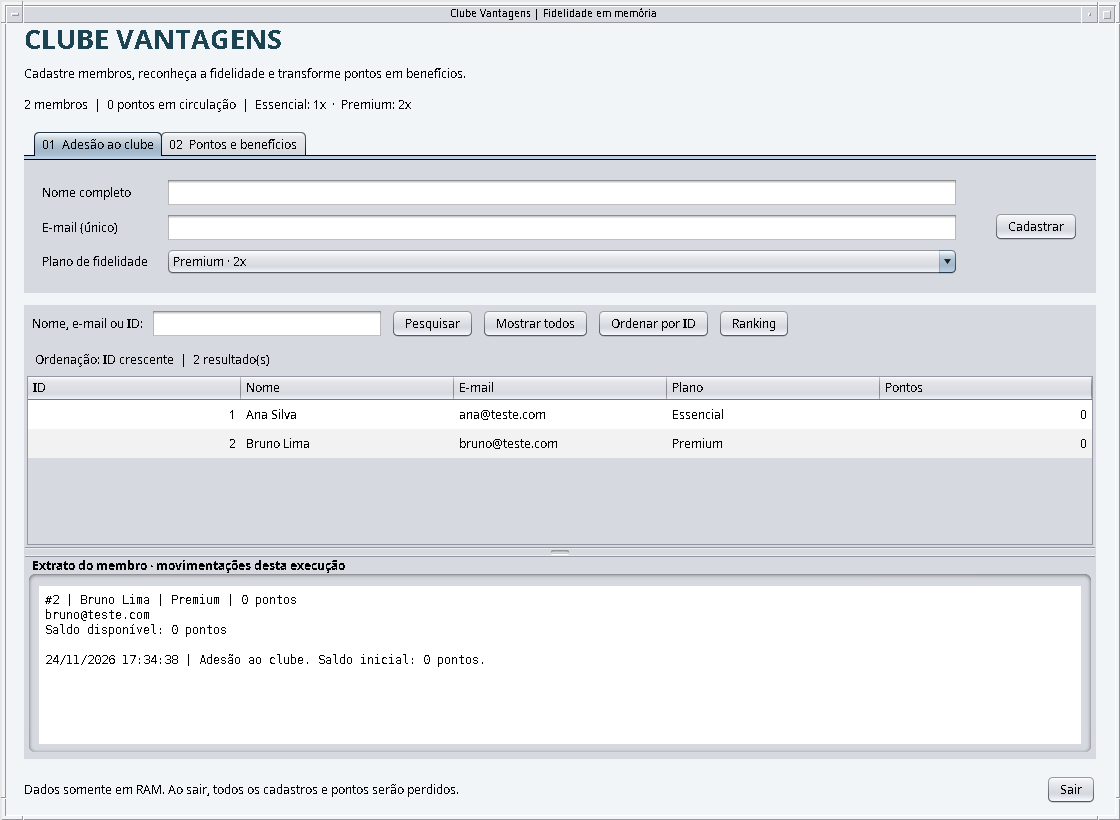
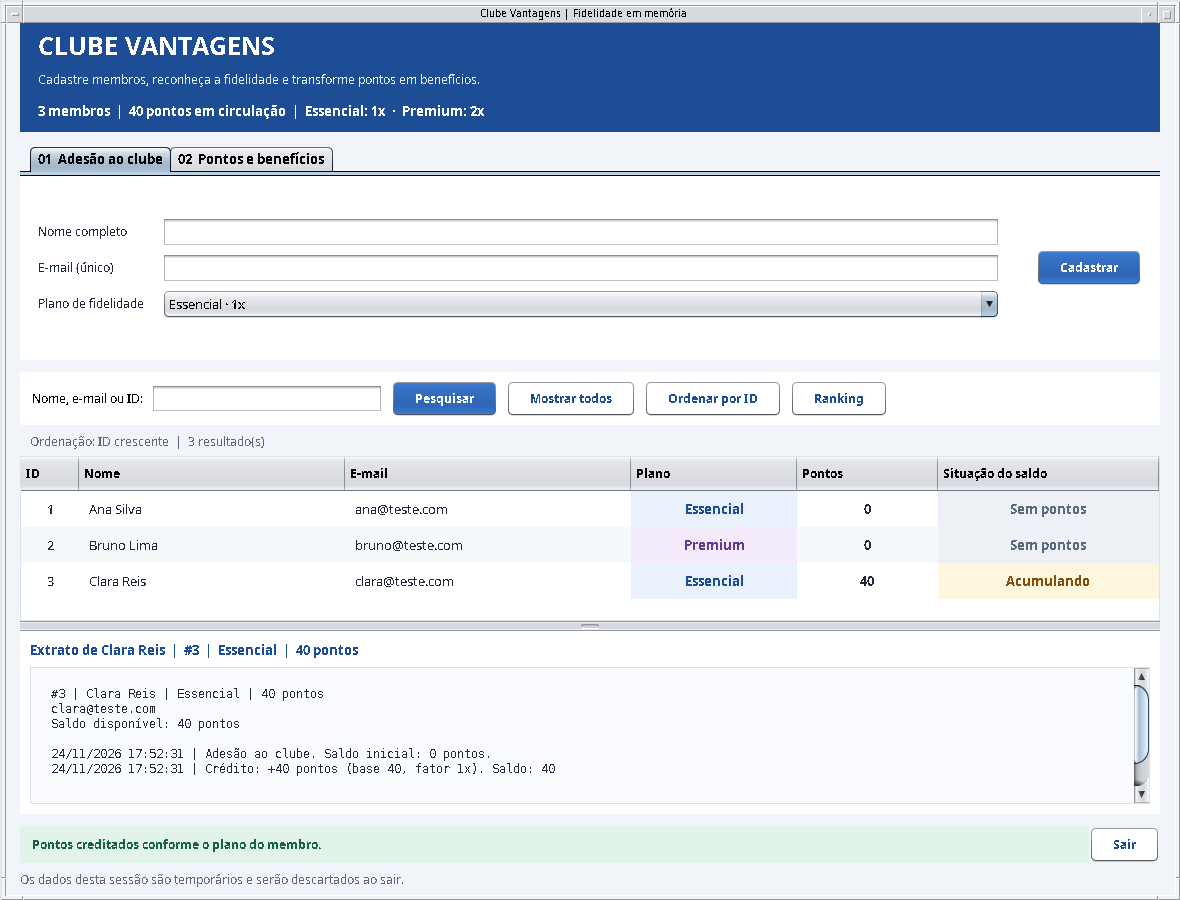
feat: melhorar cores e indicadores da interface Swing

diff --git a/src/view/TelaClube.java b/src/view/TelaClube.java
@@ -7,13 +7,23 @@ import model.Beneficio;
 import model.MembroClube;
 import javax.swing.*;
 import javax.swing.border.EmptyBorder;
+import javax.swing.event.DocumentEvent;
+import javax.swing.event.DocumentListener;
 import javax.swing.table.DefaultTableModel;
+import javax.swing.table.DefaultTableCellRenderer;
 import java.awt.*;
 import java.awt.event.WindowAdapter;
 import java.awt.event.WindowEvent;
 
 public final class TelaClube extends JFrame {
     private static final long serialVersionUID = 1L;
+    private static final Color FUNDO = new Color(241, 245, 249);
+    private static final Color TEXTO = new Color(30, 41, 59);
+    private static final Color AZUL = new Color(29, 78, 149);
+    private static final Color VERDE = new Color(22, 101, 65);
+    private static final Color ROXO = new Color(104, 56, 153);
+    private static final Color AMBAR = new Color(133, 77, 14);
+    private static final Color BORDA = new Color(218, 226, 235);
     private final transient GerenciadorClube gerenciador = new GerenciadorClube();
     private final JTextField nome = new JTextField(20);
     private final JTextField email = new JTextField(20);
@@ -24,9 +34,12 @@ public final class TelaClube extends JFrame {
     private final JComboBox<Beneficio> beneficio = new JComboBox<>(Beneficio.values());
     private final JTextArea extrato = new JTextArea(9, 40);
     private final JLabel resumo = new JLabel();
+    private final JLabel retorno = new JLabel("Tudo pronto. Cadastre um membro para começar.");
+    private final JLabel membroConsultado = new JLabel("Selecione um membro para consultar o extrato.");
+    private final JLabel saldoBeneficio = new JLabel("Consulte um membro para conferir o saldo do benefício.");
     private final JLabel ordem = new JLabel("Ordenação: ID crescente");
     private final DefaultTableModel modelo = new DefaultTableModel(
-            new String[]{"ID", "Nome", "E-mail", "Plano", "Pontos"}, 0) {
+            new String[]{"ID", "Nome", "E-mail", "Plano", "Pontos", "Situação do saldo"}, 0) {
         private static final long serialVersionUID = 1L;
         @Override public boolean isCellEditable(int linha, int coluna) { return false; }
         @Override public Class<?> getColumnClass(int coluna) {
@@ -39,28 +52,34 @@ public final class TelaClube extends JFrame {
     public TelaClube() {
         super("Clube Vantagens | Fidelidade em memória");
         setDefaultCloseOperation(DO_NOTHING_ON_CLOSE);
-        setMinimumSize(new Dimension(1000, 740));
-        setSize(1120, 820);
+        setMinimumSize(new Dimension(1080, 800));
+        setSize(1180, 900);
         setLocationRelativeTo(null);
-        JPanel raiz = new JPanel(new BorderLayout(16, 16));
-        raiz.setBorder(new EmptyBorder(20, 24, 16, 24));
-        raiz.setBackground(new Color(242, 245, 248));
+        JPanel raiz = new JPanel(new BorderLayout(12, 12));
+        raiz.setBorder(new EmptyBorder(16, 20, 12, 20));
+        raiz.setBackground(FUNDO);
         setContentPane(raiz);
 
         JPanel cabecalho = new JPanel(new BorderLayout(8, 8));
-        cabecalho.setOpaque(false);
+        cabecalho.setBackground(AZUL);
+        cabecalho.setBorder(new EmptyBorder(12, 18, 12, 18));
         JLabel titulo = new JLabel("CLUBE VANTAGENS");
-        titulo.setFont(new Font(Font.SANS_SERIF, Font.BOLD, 27));
-        titulo.setForeground(new Color(27, 67, 81));
+        titulo.setFont(new Font(Font.SANS_SERIF, Font.BOLD, 25));
+        titulo.setForeground(Color.WHITE);
         cabecalho.add(titulo, BorderLayout.NORTH);
-        cabecalho.add(new JLabel("Cadastre membros, reconheça a fidelidade e transforme pontos em benefícios."), BorderLayout.CENTER);
+        JLabel subtitulo = new JLabel("Cadastre membros, reconheça a fidelidade e transforme pontos em benefícios.");
+        subtitulo.setForeground(new Color(224, 237, 255));
+        cabecalho.add(subtitulo, BorderLayout.CENTER);
         resumo.setBorder(new EmptyBorder(6, 0, 0, 0));
+        resumo.setFont(new Font(Font.SANS_SERIF, Font.BOLD, 13));
+        resumo.setForeground(Color.WHITE);
         cabecalho.add(resumo, BorderLayout.SOUTH);
         raiz.add(cabecalho, BorderLayout.NORTH);
 
         JPanel centro = new JPanel(new BorderLayout(12, 12));
         centro.setOpaque(false);
         JTabbedPane abas = new JTabbedPane();
+        abas.setFont(new Font(Font.SANS_SERIF, Font.BOLD, 13));
         abas.addTab("01  Adesão ao clube", criarCadastro());
         abas.addTab("02  Pontos e benefícios", criarOperacoes());
         centro.add(abas, BorderLayout.NORTH);
@@ -69,12 +88,37 @@ public final class TelaClube extends JFrame {
 
         JPanel rodape = new JPanel(new BorderLayout());
         rodape.setOpaque(false);
-        rodape.add(new JLabel("Dados somente em RAM. Ao sair, todos os cadastros e pontos serão perdidos."), BorderLayout.CENTER);
+        retorno.setOpaque(true);
+        retorno.setFont(new Font(Font.SANS_SERIF, Font.BOLD, 12));
+        retorno.setBorder(new EmptyBorder(10, 12, 10, 12));
+        mostrarRetorno("Tudo pronto. Cadastre um membro para começar.", AZUL, new Color(226, 237, 252));
+        rodape.add(retorno, BorderLayout.CENTER);
+        JLabel aviso = new JLabel("Os dados desta sessão são temporários e serão descartados ao sair.");
+        aviso.setForeground(new Color(90, 105, 125));
+        aviso.setBorder(new EmptyBorder(8, 0, 0, 0));
+        rodape.add(aviso, BorderLayout.SOUTH);
         rodape.add(botao("Sair", this::solicitarSaida), BorderLayout.EAST);
         raiz.add(rodape, BorderLayout.SOUTH);
 
         tabela.setSelectionMode(ListSelectionModel.SINGLE_SELECTION);
-        tabela.setRowHeight(29);
+        tabela.setRowHeight(36);
+        tabela.setFont(new Font(Font.SANS_SERIF, Font.PLAIN, 13));
+        tabela.setShowGrid(false);
+        tabela.setIntercellSpacing(new Dimension(0, 0));
+        tabela.setSelectionBackground(new Color(220, 234, 253));
+        tabela.setSelectionForeground(TEXTO);
+        tabela.setFillsViewportHeight(true);
+        tabela.getTableHeader().setFont(new Font(Font.SANS_SERIF, Font.BOLD, 12));
+        tabela.getTableHeader().setPreferredSize(new Dimension(0, 34));
+        tabela.setDefaultRenderer(Object.class, new RenderizadorMembros());
+        tabela.setDefaultRenderer(Integer.class, new RenderizadorMembros());
+        tabela.getColumnModel().getColumn(0).setMaxWidth(58);
+        tabela.getColumnModel().getColumn(1).setPreferredWidth(200);
+        tabela.getColumnModel().getColumn(2).setPreferredWidth(220);
+        tabela.getColumnModel().getColumn(3).setPreferredWidth(100);
+        tabela.getColumnModel().getColumn(4).setPreferredWidth(75);
+        tabela.getColumnModel().getColumn(5).setPreferredWidth(155);
+        tabela.setToolTipText("Selecione uma linha para abrir o extrato. Pode resgatar indica saldo para ao menos um benefício.");
         tabela.getTableHeader().setReorderingAllowed(false);
         tabela.getSelectionModel().addListSelectionListener(evento -> {
             if (!evento.getValueIsAdjusting() && tabela.getSelectedRow() >= 0) {
@@ -90,7 +134,8 @@ public final class TelaClube extends JFrame {
 
     private JPanel criarCadastro() {
         JPanel painel = new JPanel(new GridBagLayout());
-        painel.setBorder(new EmptyBorder(14, 12, 14, 12));
+        painel.setBackground(Color.WHITE);
+        painel.setBorder(new EmptyBorder(10, 12, 10, 12));
         campo(painel, "Nome completo", nome, 0);
         campo(painel, "E-mail (único)", email, 1);
         campo(painel, "Plano de fidelidade", plano, 2);
@@ -103,7 +148,8 @@ public final class TelaClube extends JFrame {
 
     private JPanel criarOperacoes() {
         JPanel painel = new JPanel(new GridBagLayout());
-        painel.setBorder(new EmptyBorder(14, 12, 14, 12));
+        painel.setBackground(Color.WHITE);
+        painel.setBorder(new EmptyBorder(10, 12, 10, 12));
         campo(painel, "ID do membro", id, 0);
         campo(painel, "Pontos-base (inteiro positivo)", pontos, 1);
         campo(painel, "Benefício para resgate", beneficio, 2);
@@ -115,12 +161,27 @@ public final class TelaClube extends JFrame {
         painel.add(botao("Acumular pontos", () -> executar(this::acumular)), c);
         c.gridy = 2;
         painel.add(botao("Resgatar benefício", () -> executar(this::resgatar)), c);
+        c.gridx = 0; c.gridy = 3; c.gridwidth = 3;
+        saldoBeneficio.setOpaque(true);
+        saldoBeneficio.setBorder(new EmptyBorder(6, 10, 6, 10));
+        saldoBeneficio.setForeground(AZUL);
+        saldoBeneficio.setBackground(new Color(235, 242, 253));
+        painel.add(saldoBeneficio, c);
+        beneficio.addActionListener(evento -> atualizarPreviaBeneficio());
+        id.getDocument().addDocumentListener(new DocumentListener() {
+            @Override public void insertUpdate(DocumentEvent evento) { atualizarPreviaBeneficio(); }
+            @Override public void removeUpdate(DocumentEvent evento) { atualizarPreviaBeneficio(); }
+            @Override public void changedUpdate(DocumentEvent evento) { atualizarPreviaBeneficio(); }
+        });
         return painel;
     }
 
     private JPanel criarListagem() {
         JPanel painel = new JPanel(new BorderLayout(8, 8));
+        painel.setOpaque(false);
         JPanel busca = new JPanel(new FlowLayout(FlowLayout.LEFT, 8, 4));
+        busca.setBackground(Color.WHITE);
+        busca.setBorder(new EmptyBorder(4, 4, 4, 4));
         JLabel rotulo = new JLabel("Nome, e-mail ou ID:");
         rotulo.setLabelFor(pesquisa);
         busca.add(rotulo);
@@ -133,20 +194,36 @@ public final class TelaClube extends JFrame {
         painel.add(busca, BorderLayout.NORTH);
 
         JPanel listagem = new JPanel(new BorderLayout(6, 6));
+        listagem.setOpaque(false);
+        ordem.setForeground(new Color(90, 105, 125));
         ordem.setBorder(new EmptyBorder(0, 10, 0, 0));
         listagem.add(ordem, BorderLayout.NORTH);
         JScrollPane rolagemTabela = new JScrollPane(tabela);
-        rolagemTabela.setPreferredSize(new Dimension(900, 160));
+        rolagemTabela.setBorder(BorderFactory.createLineBorder(BORDA));
+        rolagemTabela.getViewport().setBackground(Color.WHITE);
+        rolagemTabela.setPreferredSize(new Dimension(900, 180));
         listagem.add(rolagemTabela, BorderLayout.CENTER);
 
         extrato.setEditable(false);
         extrato.setFont(new Font(Font.MONOSPACED, Font.PLAIN, 12));
+        extrato.setForeground(TEXTO);
+        extrato.setBackground(new Color(249, 251, 254));
+        extrato.setMargin(new Insets(12, 14, 12, 14));
         extrato.setLineWrap(true);
         extrato.setWrapStyleWord(true);
         extrato.setText("Selecione um membro na listagem ou consulte pelo ID na aba Pontos e benefícios.");
         JScrollPane rolagemExtrato = new JScrollPane(extrato);
-        rolagemExtrato.setBorder(BorderFactory.createTitledBorder("Extrato do membro · movimentações desta execução"));
-        JSplitPane divisao = new JSplitPane(JSplitPane.VERTICAL_SPLIT, listagem, rolagemExtrato);
+        rolagemExtrato.setBorder(BorderFactory.createLineBorder(BORDA));
+        JPanel painelExtrato = new JPanel(new BorderLayout(0, 8));
+        painelExtrato.setBackground(Color.WHITE);
+        painelExtrato.setBorder(new EmptyBorder(10, 10, 10, 10));
+        membroConsultado.setFont(new Font(Font.SANS_SERIF, Font.BOLD, 13));
+        membroConsultado.setForeground(AZUL);
+        painelExtrato.add(membroConsultado, BorderLayout.NORTH);
+        painelExtrato.add(rolagemExtrato, BorderLayout.CENTER);
+        JSplitPane divisao = new JSplitPane(JSplitPane.VERTICAL_SPLIT, listagem, painelExtrato);
+        divisao.setBorder(null);
+        divisao.setDividerSize(10);
         divisao.setResizeWeight(0.55);
         painel.add(divisao, BorderLayout.CENTER);
         return painel;
@@ -156,7 +233,10 @@ public final class TelaClube extends JFrame {
         GridBagConstraints c = new GridBagConstraints();
         c.gridx = 0; c.gridy = linha; c.anchor = GridBagConstraints.WEST;
         c.insets = new Insets(3, 6, 3, 12);
+        componente.setFont(new Font(Font.SANS_SERIF, Font.PLAIN, 13));
+        componente.setPreferredSize(new Dimension(200, 30));
         JLabel rotulo = new JLabel(texto);
+        rotulo.setForeground(TEXTO);
         rotulo.setLabelFor(componente);
         painel.add(rotulo, c);
         c.gridx = 1; c.weightx = 1; c.fill = GridBagConstraints.HORIZONTAL;
@@ -166,6 +246,20 @@ public final class TelaClube extends JFrame {
     private JButton botao(String texto, Runnable acao) {
         JButton botao = new JButton(texto);
         botao.setCursor(Cursor.getPredefinedCursor(Cursor.HAND_CURSOR));
+        botao.setFont(new Font(Font.SANS_SERIF, Font.BOLD, 12));
+        botao.setMargin(new Insets(4, 10, 4, 10));
+        botao.setBackground(new Color(234, 240, 247));
+        botao.setForeground(AZUL);
+        if (texto.equals("Cadastrar") || texto.equals("Pesquisar")) {
+            botao.setBackground(AZUL);
+            botao.setForeground(Color.WHITE);
+        } else if (texto.equals("Acumular pontos")) {
+            botao.setBackground(VERDE);
+            botao.setForeground(Color.WHITE);
+        } else if (texto.equals("Resgatar benefício")) {
+            botao.setBackground(ROXO);
+            botao.setForeground(Color.WHITE);
+        }
         botao.addActionListener(evento -> acao.run());
         return botao;
     }
@@ -200,19 +294,89 @@ public final class TelaClube extends JFrame {
     }
 
     private void mostrarExtrato() throws CadastroInvalidoException {
-        extrato.setText(gerenciador.emitirExtrato(lerId()));
+        MembroClube membro = gerenciador.buscarPorId(lerId());
+        membroConsultado.setText("Extrato de " + membro.getNome() + "  |  #" + membro.getId()
+                + "  |  " + membro.getPlano() + "  |  " + membro.getPontos() + " pontos");
+        atualizarPreviaBeneficio();
+        extrato.setText(gerenciador.emitirExtrato(membro.getId()));
         extrato.setCaretPosition(0);
+        mostrarRetorno("Extrato de " + membro.getNome() + " atualizado.", AZUL, new Color(226, 237, 252));
     }
 
     private void atualizarListagem() {
         modelo.setRowCount(0);
         for (MembroClube membro : gerenciador.pesquisar(pesquisa.getText(), ranking)) {
-            modelo.addRow(new Object[]{membro.getId(), membro.getNome(), membro.getEmail(), membro.getPlano(), membro.getPontos()});
+            modelo.addRow(new Object[]{membro.getId(), membro.getNome(), membro.getEmail(), membro.getPlano(), membro.getPontos(), situacaoSaldo(membro.getPontos())});
         }
         resumo.setText(gerenciador.getQuantidadeMembros() + " membros  |  " + gerenciador.getTotalPontos()
                 + " pontos em circulação  |  Essencial: 1x  ·  Premium: 2x");
         ordem.setText((ranking ? "Ranking: maior saldo primeiro; empate por ID" : "Ordenação: ID crescente")
-                + "  |  " + modelo.getRowCount() + " resultado(s)");
+                + "  |  " + modelo.getRowCount() + " resultado(s)"
+                + (modelo.getRowCount() == 0 ? " · Cadastre um membro ou ajuste a pesquisa." : ""));
+    }
+
+    private String situacaoSaldo(int saldo) {
+        if (saldo == 0) return "Sem pontos";
+        if (saldo < Beneficio.CAFE.getCusto()) return "Acumulando";
+        return "Pode resgatar";
+    }
+
+    private void atualizarPreviaBeneficio() {
+        try {
+            MembroClube membro = gerenciador.buscarPorId(lerId());
+            Beneficio escolhido = (Beneficio) beneficio.getSelectedItem();
+            if (escolhido == null) return;
+            int faltam = escolhido.getCusto() - membro.getPontos();
+            saldoBeneficio.setText(membro.getNome() + " · " + membro.getPontos() + " pontos · "
+                    + (faltam > 0 ? "Faltam " + faltam + " pontos para este benefício."
+                    : "Saldo suficiente para este benefício."));
+            saldoBeneficio.setForeground(faltam > 0 ? AMBAR : VERDE);
+            saldoBeneficio.setBackground(faltam > 0 ? new Color(255, 247, 221) : new Color(226, 244, 233));
+        } catch (NumberFormatException | CadastroInvalidoException ex) {
+            saldoBeneficio.setText("Consulte um membro para conferir o saldo do benefício.");
+            saldoBeneficio.setForeground(AZUL);
+            saldoBeneficio.setBackground(new Color(235, 242, 253));
+        }
+    }
+
+    private void mostrarRetorno(String mensagem, Color corTexto, Color corFundo) {
+        retorno.setText(mensagem);
+        retorno.setForeground(corTexto);
+        retorno.setBackground(corFundo);
+        retorno.setToolTipText(mensagem);
+    }
+
+    // Renderização básica: o texto identifica a situação mesmo sem distinguir as cores.
+    private static final class RenderizadorMembros extends DefaultTableCellRenderer {
+        private static final long serialVersionUID = 1L;
+        @Override
+        public Component getTableCellRendererComponent(JTable tabela, Object valor, boolean selecionada,
+                                                       boolean foco, int linha, int coluna) {
+            super.getTableCellRendererComponent(tabela, valor, selecionada, foco, linha, coluna);
+            setBorder(new EmptyBorder(4, 10, 4, 10));
+            setFont(tabela.getFont());
+            setHorizontalAlignment(coluna == 0 || coluna >= 3 ? CENTER : LEFT);
+            setForeground(TEXTO);
+            setBackground(selecionada ? tabela.getSelectionBackground()
+                    : linha % 2 == 0 ? Color.WHITE : new Color(246, 249, 252));
+            if (coluna == 3 || coluna == 5) {
+                setFont(tabela.getFont().deriveFont(Font.BOLD));
+                if (coluna == 3) {
+                    setForeground("Premium".equals(valor) ? ROXO : AZUL);
+                    if (!selecionada) setBackground("Premium".equals(valor)
+                            ? new Color(243, 235, 252) : new Color(233, 241, 253));
+                } else {
+                    setForeground("Pode resgatar".equals(valor) ? VERDE
+                            : "Acumulando".equals(valor) ? AMBAR : new Color(90, 105, 125));
+                    if (!selecionada) setBackground("Pode resgatar".equals(valor)
+                            ? new Color(226, 244, 233) : "Acumulando".equals(valor)
+                            ? new Color(255, 247, 221) : new Color(237, 241, 246));
+                }
+            } else if (coluna == 4) {
+                setFont(tabela.getFont().deriveFont(Font.BOLD));
+            }
+            return this;
+        }
     }
 
     @FunctionalInterface
@@ -224,14 +388,17 @@ public final class TelaClube extends JFrame {
         try {
             acao.executar();
         } catch (NumberFormatException ex) {
+            mostrarRetorno("Valor inválido. Confira os campos de ID e pontos.", AMBAR, new Color(255, 247, 221));
             JOptionPane.showMessageDialog(this, "Informe números inteiros válidos para ID e pontos (até 2147483647).",
                     "Valor numérico inválido", JOptionPane.WARNING_MESSAGE);
         } catch (CadastroInvalidoException | PontuacaoInsuficienteException ex) {
+            mostrarRetorno(ex.getMessage(), AMBAR, new Color(255, 247, 221));
             JOptionPane.showMessageDialog(this, ex.getMessage(), "Operação não realizada", JOptionPane.WARNING_MESSAGE);
         }
     }
 
     private void informar(String mensagem) {
+        mostrarRetorno(mensagem, VERDE, new Color(226, 244, 233));
         JOptionPane.showMessageDialog(this, mensagem, "Clube Vantagens", JOptionPane.INFORMATION_MESSAGE);
     }
 

diff --git a/README.md b/README.md
@@ -56,6 +56,8 @@ Desenvolvido para a **P2 prática de Programação Orientada a Objetos**, da Fat
 | **Pesquisa rápida** | Localize membros por nome, e-mail ou ID. |
 | **Extrato individual** | Consulte créditos, resgates e saldo com data e hora das operações. |
 | **Indicadores do clube** | Acompanhe a quantidade de membros e os pontos em circulação. |
+| **Situação do saldo** | Identifique quem está sem pontos, acumulando ou já pode resgatar um benefício. |
+| **Prévia do resgate** | Veja quanto falta para o benefício escolhido antes de confirmar a operação. |
 
 ## O sistema em ação
 
@@ -78,6 +80,20 @@ O plano Premium aplica o fator 2x no crédito. No exemplo, 150 pontos-base geram
 Se o saldo não cobrir o benefício, a aplicação informa o motivo em um diálogo e preserva os pontos e o histórico.
 
 ![Mensagem de saldo insuficiente ao tentar resgatar um benefício](docs/imagens/03-saldo-insuficiente.png)
+
+### Cores que ajudam a navegar
+
+Os destaques utilizam recursos padrão do Swing: cores de fundo e texto, bordas e um renderizador de células da `JTable`.
+
+| Cor | Significado |
+| --- | --- |
+| Azul | Ações principais e identificação do plano Essencial. |
+| Verde | Crédito de pontos, operação concluída e saldo que permite resgatar. |
+| Roxo | Plano Premium e ação de resgatar benefício. |
+| Amarelo | Avisos, pontos ainda em acúmulo e saldo insuficiente para o benefício selecionado. |
+| Cinza | Membro sem pontos. |
+
+A situação na tabela considera o benefício de menor custo (café, 100 pontos). A prévia acima das operações considera o benefício selecionado. Os estados aparecem também por escrito, para que a leitura não dependa apenas das cores.
 
 ## Planos e benefícios
 
@@ -270,6 +286,12 @@ for (MembroClube membro : membros) {
     }
 }
 ```
+
+### 6. Melhorias visuais com Swing
+
+**Aluno:** Teria como deixar as telas mais amigáveis, principalmente nas cores dos status, sem fugir dos componentes básicos ensinados em aula?
+
+**IA:** Use uma paleta consistente para diferenciar as ações, destaque o plano e a situação do saldo com um `DefaultTableCellRenderer` e mantenha os textos dos estados visíveis. Um `JLabel` pode mostrar o resultado da última ação e outro pode informar quanto falta para o benefício escolhido. Tudo pode ser feito com Swing padrão, preservando os diálogos de validação com `JOptionPane`.
 
 </details>
 
